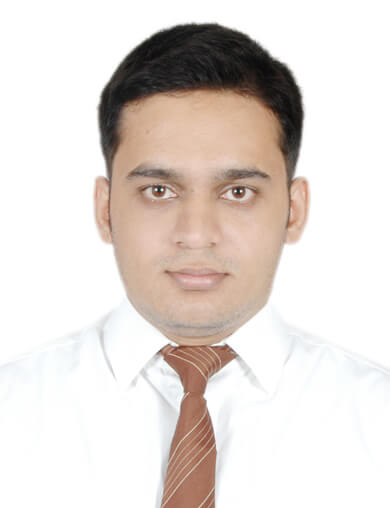
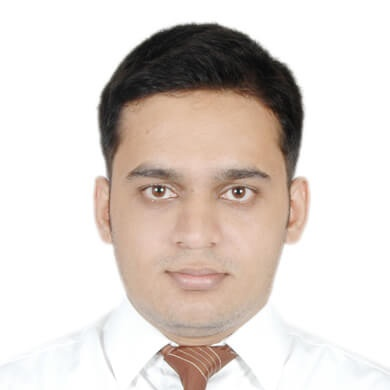
JETBRAINS-GUIDE-T-76 Make a G4 page for Authors/AuthorLayout

Changed region(s): [[0.2154, 0.0308, 0.8, 1.0], [0.2462, 0.8, 0.2769, 0.9231], [0.2769, 0.9231, 0.3077, 0.9538]]

diff --git a/_includes/references/author/AuthorsLayout.11ty.tsx b/_includes/references/author/AuthorsLayout.11ty.tsx
@@ -5,7 +5,6 @@ import {
 } from "../../layouts/ReferenceLayout.11y";
 import { Author } from "./AuthorModels";
 import { LayoutContext } from "../../../src/models";
-import Thumbnail from "../../Image.11ty";
 
 export function AuthorsLayout(
   this: LayoutContext,
@@ -16,27 +15,36 @@ export function AuthorsLayout(
     resourceType: "author",
   }) as Author[];
   const listing = (
-    <nav class="bd-links bio-resourcecards">
-      {authors.map((author) => (
-        <a aria-label={`Author`} class="bd-link" href={author.url}>
-          <h2 className="bd-link-name">
-            <figure className="bd-link-figure">
-              <div className="image is-rounded is-64x64">
-                <Thumbnail
-                  src={author.thumbnail}
-                  alt={`${author.title} image`}
-                  className="bio-resourcecard-logo"
-                />
-              </div>
-            </figure>
-            {author.title}
-          </h2>
-          {author.subtitle && (
-            <p className="bd-link-subtitle">{author.subtitle}</p>
-          )}
-        </a>
-      ))}
-    </nav>
+      <section class="section">
+        <div class="container">
+          <div class="columns is-multiline">
+            {authors.map((author) => {
+              return (
+                  <div class="column is-6 is-4-desktop mb-5">
+                    <div class="is-flex">
+                      <span class="mr-4">
+                        <a href={author.url}>
+                          <figure class="image is-1by1 is-128x128">
+                            <img src={author.thumbnail} alt={author.title}/>
+                          </figure>
+                        </a>
+                      </span>
+                      <div>
+                        <a href={author.url} aria-label={`Author`}
+                           class="is-size-5 has-text-weight-bold mb-2 title">
+                          {author.title}
+                        </a>
+                        {author.subtitle && (
+                            <p class="has-text-grey-dark">{author.subtitle}</p>
+                        )}
+                      </div>
+                    </div>
+                  </div>
+              );
+            })}
+          </div>
+        </div>
+      </section>
   );
 
   return (

diff --git a/_includes/references/author/AuthorLayout.11ty.tsx b/_includes/references/author/AuthorLayout.11ty.tsx
@@ -3,7 +3,6 @@ import {
   ReferenceLayout,
   ReferenceLayoutProps,
 } from "../../layouts/ReferenceLayout.11y";
-import Thumbnail from "../../Image.11ty";
 import { LayoutContext } from "../../../src/models";
 import ResourceCard from "../../resourcecard/ResourceCard.11ty";
 import { Resource } from "../../../src/ResourceModels";
@@ -26,13 +25,7 @@ export function AuthorLayout(
   );
 
   const figure = (
-    <div className="image is-rounded is-96x96">
-      <Thumbnail
-        src={author.thumbnail}
-        className={"bio-resourcecard-logo"}
-        alt={author.title}
-      />
-    </div>
+      <img src={author.thumbnail} alt={author.title} />
   );
   const listing = (
     <>

diff --git a/site/authors/mm/index.md b/site/authors/mm/index.md
@@ -3,5 +3,6 @@ title: Mukul Mantosh
 subtitle: Software Engineer
 thumbnail: ./mm.jpg
 ---
+
 Mukul is a software engineer by profession and he spends most of his time creating
-applications using Django, tweaking with APIs and playing with containers. 
+applications using Django, tweaking with APIs and playing with containers.

diff --git a/site/authors/dlsniper/index.md b/site/authors/dlsniper/index.md
@@ -1,7 +1,5 @@
 ---
 title: Florin Pățan
-subtitle: GoLand Developer Advocate at JetBrains
+subtitle: Developer in Go and a big fan of GoLand
 thumbnail: ./dlsniper.jpg
 ---
-
-Florin is the GoLand Developer Advocate at JetBrains.

diff --git a/site/authors/wht/index.md b/site/authors/wht/index.md
@@ -3,6 +3,7 @@ title: Bill Tucker
 subtitle: Vim expositor at large
 thumbnail: ./wht.png
 ---
+
 How do you know someone uses vim?
 
 They will tell you.  And Bill Tucker is no exception.

diff --git a/site/authors/khalidabuhakmeh/index.md b/site/authors/khalidabuhakmeh/index.md
@@ -3,5 +3,3 @@ title: Khalid Abuhakmeh
 subtitle: Developer Advocate at JetBrains
 thumbnail: ./khalidabuhakmeh.jpg
 ---
-
-Khalid is a Developer Advocate at JetBrains.

diff --git a/site/authors/maartenba/index.md b/site/authors/maartenba/index.md
@@ -3,5 +3,3 @@ title: Maarten Balliauw
 subtitle: Developer Advocate at JetBrains
 thumbnail: ./maartenba.jpg
 ---
-
-Maarten is a Developer Advocate at JetBrains.

diff --git a/site/authors/rachelappel/index.md b/site/authors/rachelappel/index.md
@@ -3,5 +3,3 @@ title: Rachel Appel
 subtitle: Developer Advocate at JetBrains
 thumbnail: ./rachelappel.jpg
 ---
-
-Rachel is a Developer Advocate at JetBrains.

diff --git a/site/authors/matkoch/index.md b/site/authors/matkoch/index.md
@@ -3,5 +3,3 @@ title: Matthias Koch
 subtitle: Developer Advocate at JetBrains
 thumbnail: ./matkoch.jpg
 ---
-
-Matthias is a Developer Advocate at JetBrains.

diff --git a/site/authors/citizenmatt/index.md b/site/authors/citizenmatt/index.md
@@ -3,5 +3,3 @@ title: Matt Ellis
 subtitle: Developer Advocate at JetBrains
 thumbnail: ./citizenmatt.jpg
 ---
-
-Matt is a Developer Advocate at JetBrains.

diff --git a/site/authors/ap/index.md b/site/authors/ap/index.md
@@ -3,6 +3,3 @@ title: Artem Pronichev
 subtitle: Technical Writer at JetBrains
 thumbnail: ./ap.png
 ---
-
-Artem is a technical writer at JetBrains.
-

diff --git a/site/authors/ni/index.md b/site/authors/ni/index.md
@@ -1,6 +1,5 @@
 ---
 title: Nafiul Islam
-subtitle: JetBrains Developer Advocate
+subtitle: Python Developer Advocate
 thumbnail: ./nafiul.jpg
 ---
-
